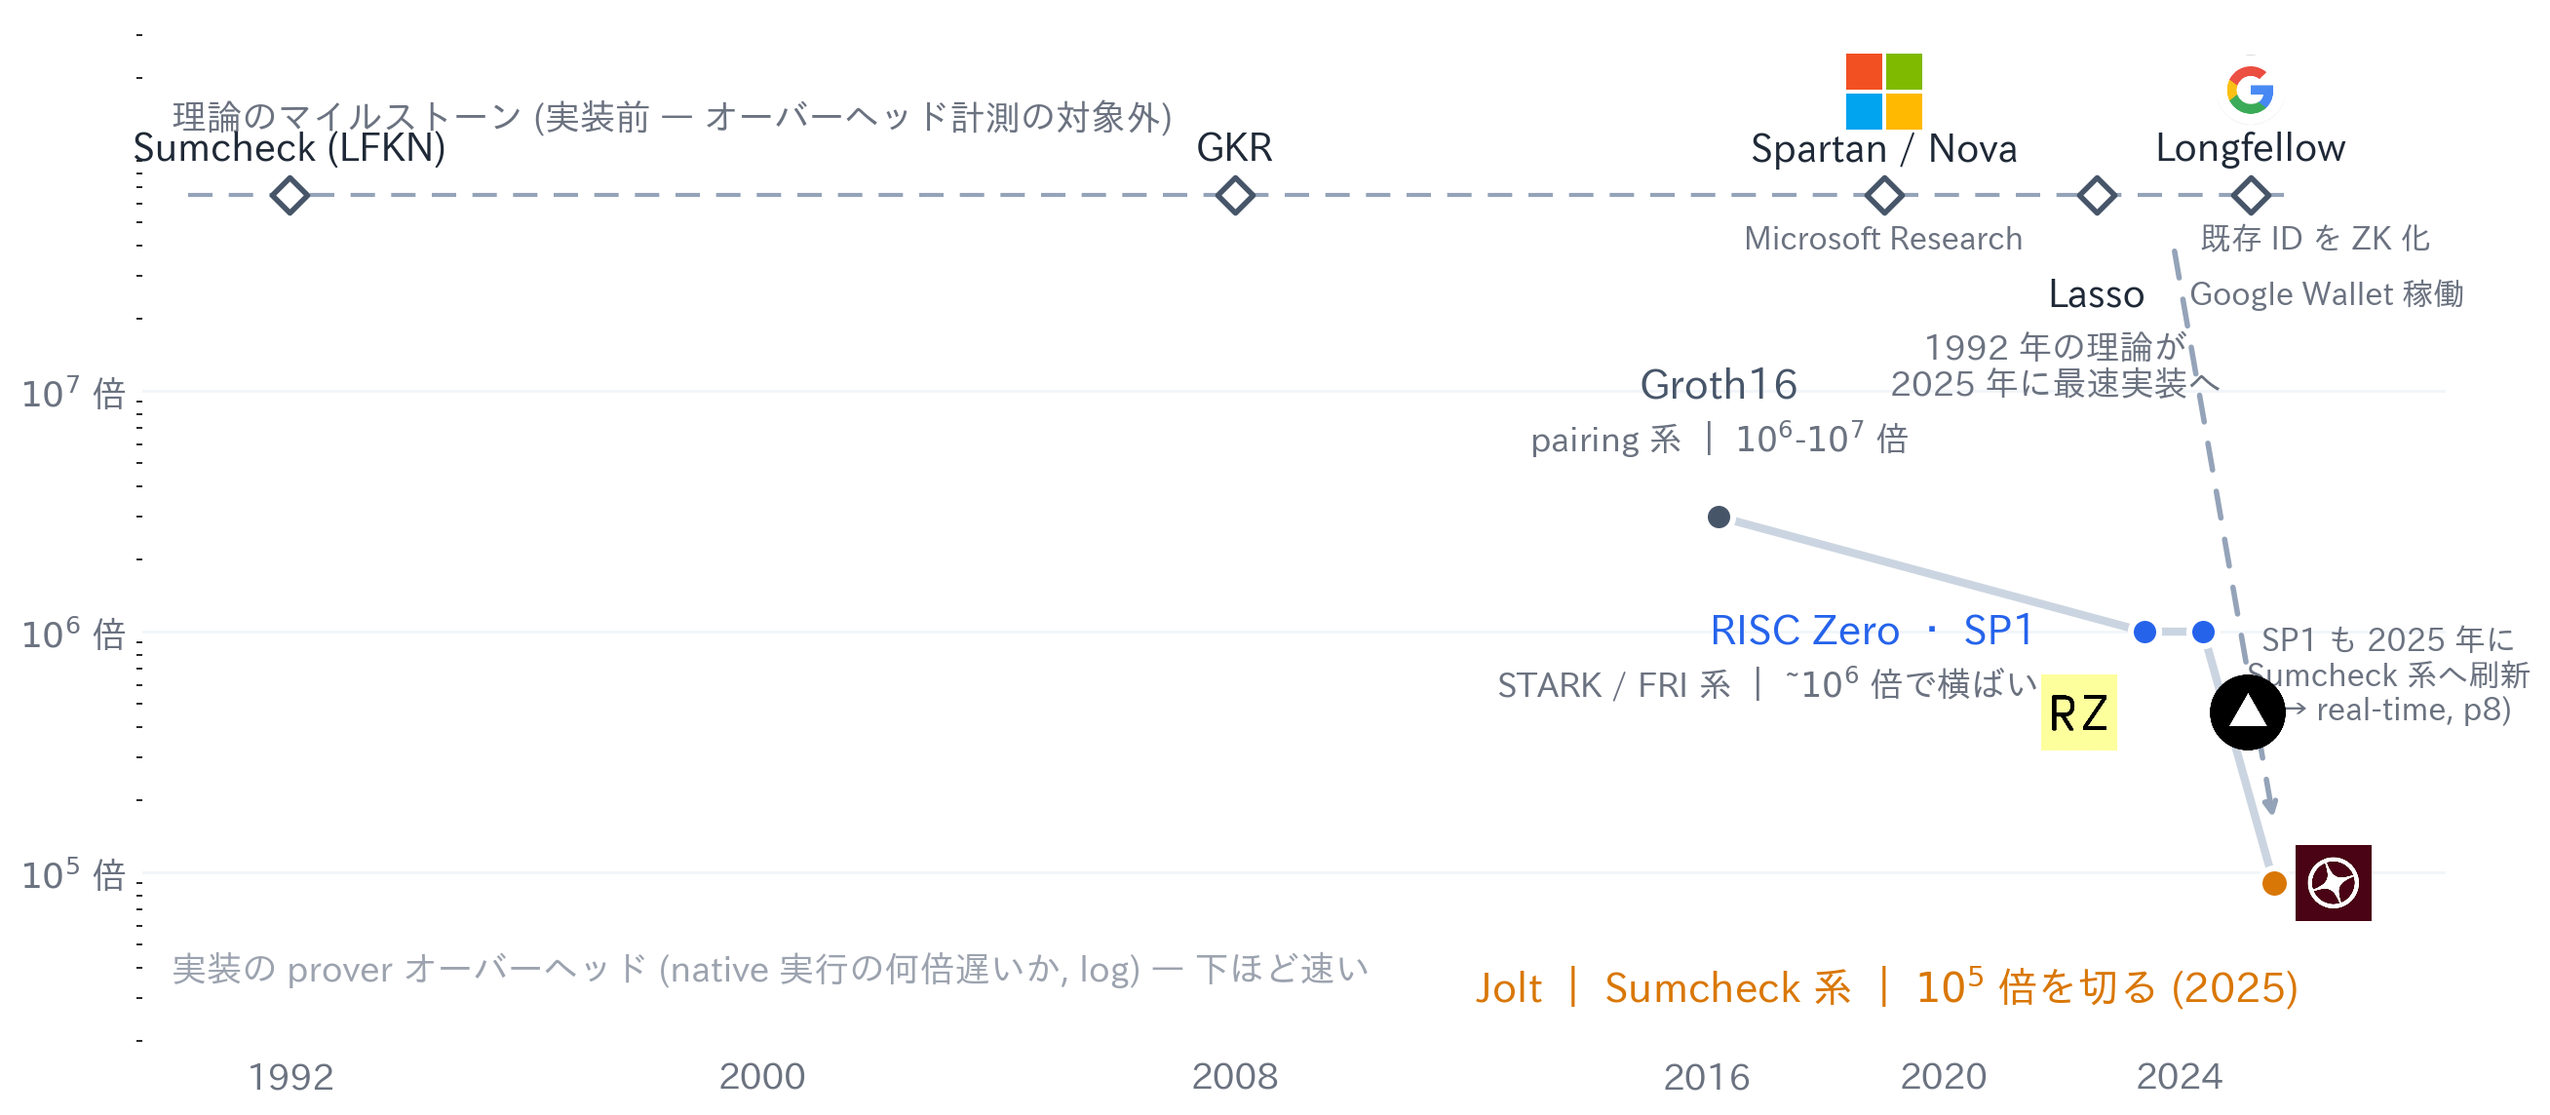
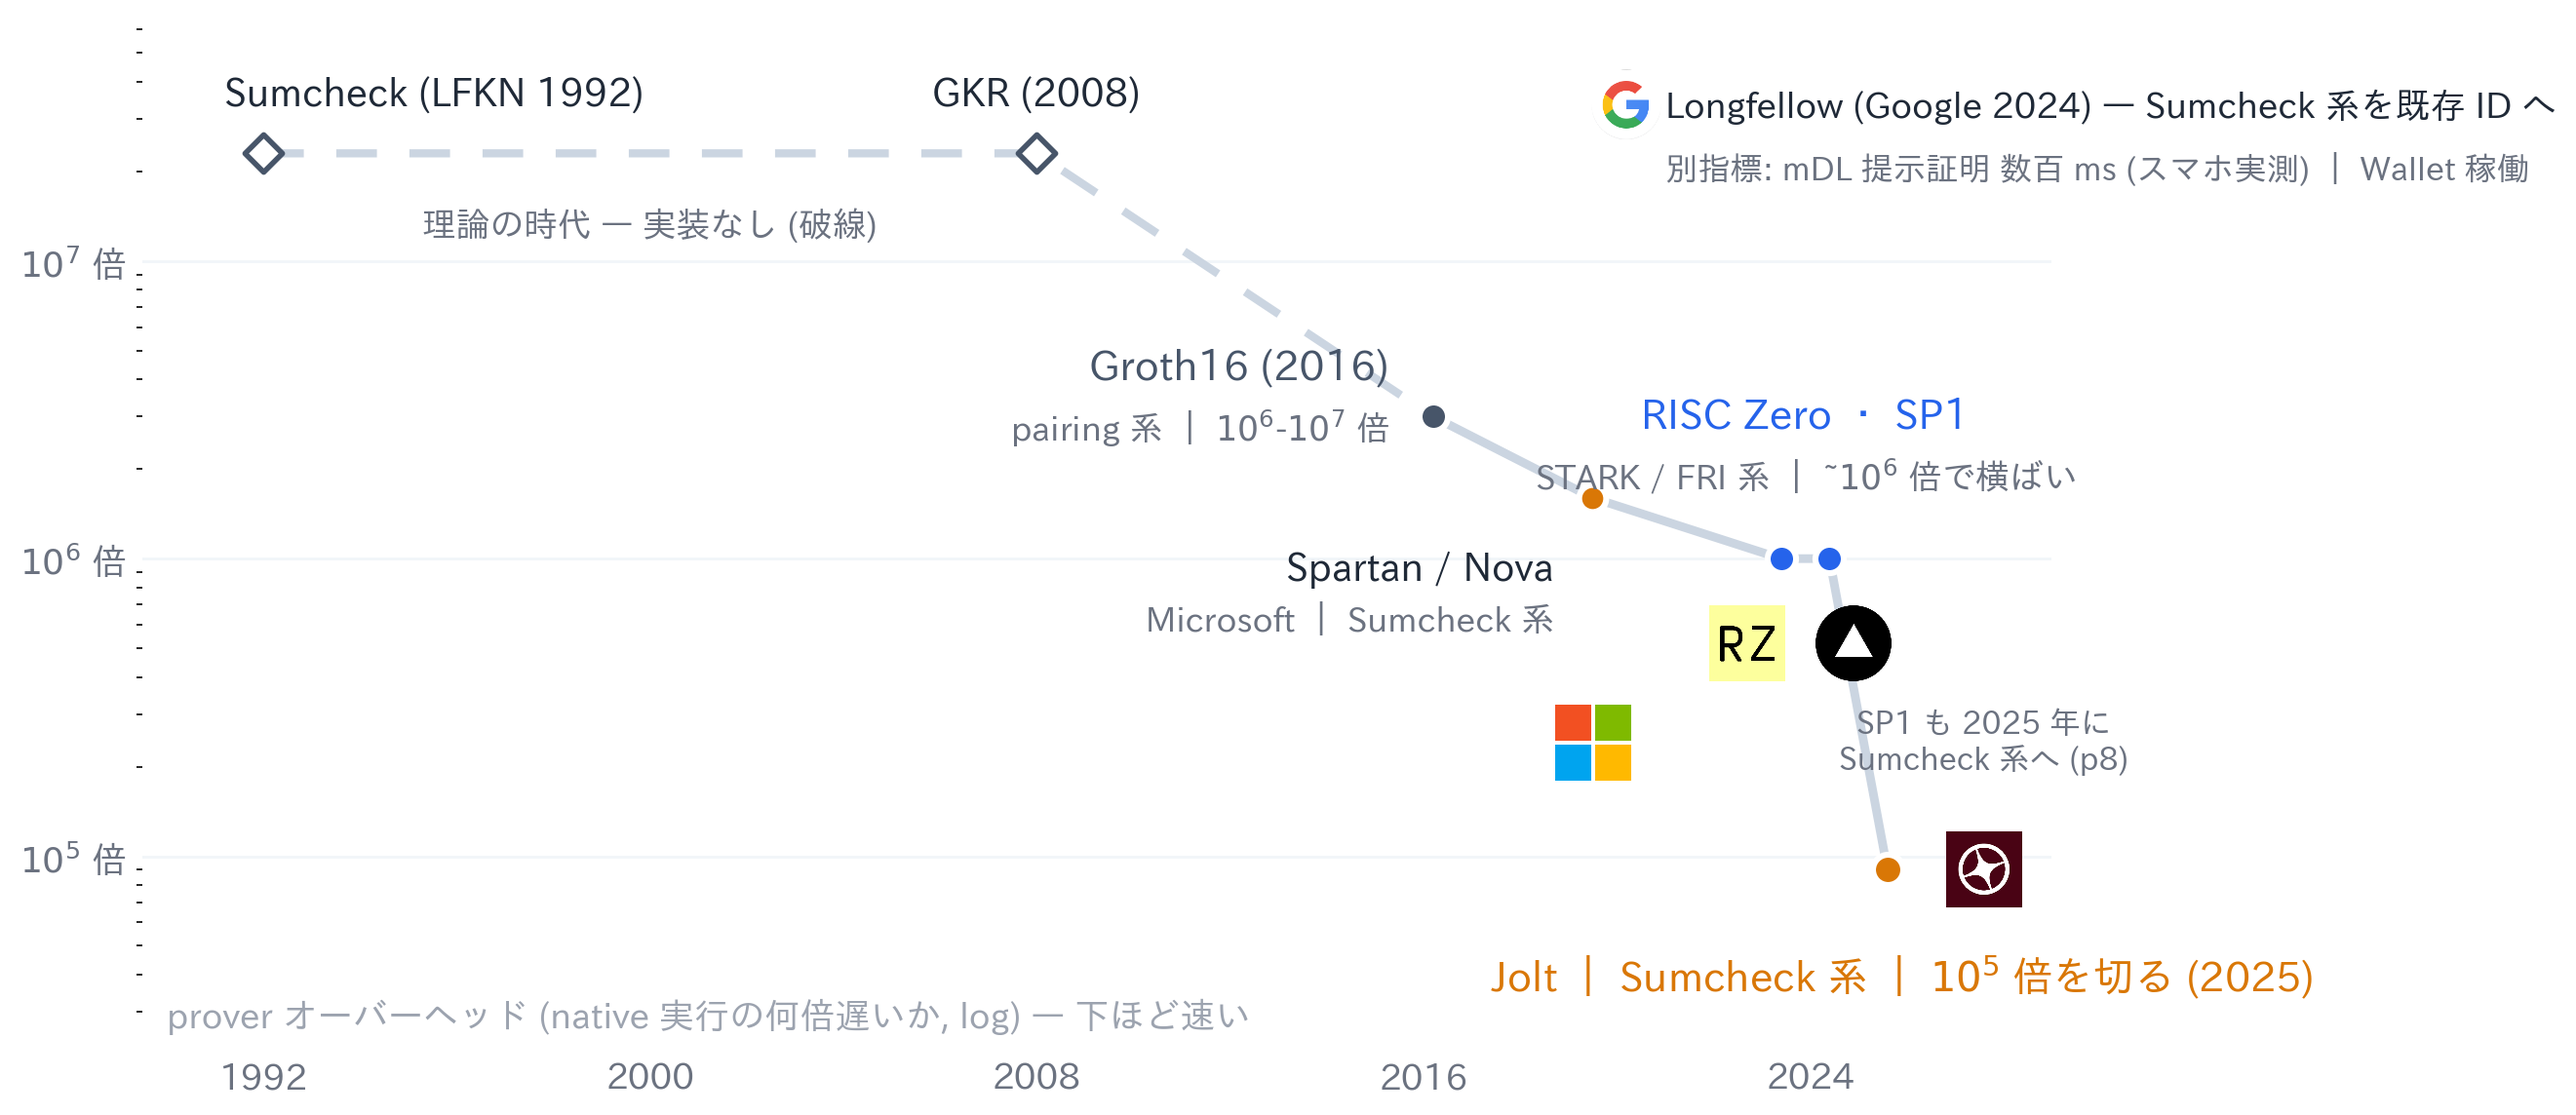
p15 (SL17): 1 本の performance 線に全面リライト — 理論時代は破線、実装以降は実線 (Sumcheck→GKR→Groth16→Spartan/Nova→RISC Zero→SP1→Jolt、Longfellow は併記)

diff --git a/figures/prover_overhead.py b/figures/prover_overhead.py
@@ -1,15 +1,17 @@
-# prover_overhead.py — 証明系の理論と実装を 1 本のグラフに統合 (SL17)
+# prover_overhead.py — 証明系 30 年の performance を 1 本の線で (SL17)
 #
 # 生成: uv run --with matplotlib python3 figures/prover_overhead.py
 # 出力: public/images/prover_overhead.png
 #
 # 設計:
-#   - グラフは 1 個。上段の破線シェルフ = 理論マイルストーン (オーバーヘッド計測の対象外):
-#     Sumcheck (1992) / GKR (2008) / Spartan・Nova (Microsoft) / Lasso / Longfellow (Google)。
-#   - 下段の折れ線 = 実装の最速 prover オーバーヘッド (native 比, log。下ほど速い):
-#     Groth16 → RISC Zero → SP1 → Jolt。点の色 = 系統 (グレー pairing / 青 STARK・FRI / amber Sumcheck)。
-#   - シェルフから Jolt への破線矢印 = 「1992 年の理論が 2025 年に最速実装へ」。
-#   - 値は出典のある公表値・公表分析のみ (Thaler a16z 2022/2025, Jolt 2025)。凡例なし。
+#   - 線は 1 本だけ。1992 (Sumcheck) から 2025 (Jolt) まで降りてくる。
+#     破線区間 = 理論のみ (実装が無くオーバーヘッド計測なし)、実線区間 = 実装の最速値。
+#   - 縦軸 = prover オーバーヘッド (native 実行の何倍遅いか, log)。下ほど速い。
+#   - 点の色 = 系統: グレー = pairing / 青 = STARK・FRI / amber = Sumcheck。
+#     理論点 (Sumcheck / GKR) は白抜きダイヤ。
+#   - Longfellow (Google) は zkVM と別指標のため右上の注記で併載。
+#   - 実測値の出典: Thaler a16z (2022 / 2025-03), a16z Jolt (2025-08)。
+#     Spartan / Nova の点は系譜上の中継点 (公表オーバーヘッド値なし、位置は模式)。
 
 import matplotlib
 matplotlib.use("Agg")
@@ -32,6 +34,7 @@ GRAY = "#475569"
 GHOST = "#94a3b8"
 BLUE = "#2563eb"
 AMBER = "#d97706"
+LINE = "#cbd5e1"
 TEXT_PRIMARY = "#1f2937"
 TEXT_MUTED = "#6b7280"
 TEXT_FAINT = "#9ca3af"
@@ -52,9 +55,9 @@ def logo_at(name, x, y):
 fig, ax = plt.subplots(figsize=(13.2, 5.8), dpi=200)
 fig.patch.set_facecolor(SURFACE)
 ax.set_facecolor(SURFACE)
-ax.set_xlim(1989.5, 2028.5)
+ax.set_xlim(1989.5, 2029.0)
 ax.set_yscale("log")
-ax.set_ylim(2e4, 3.5e8)
+ax.set_ylim(2.4e4, 6.5e7)
 
 for sp in ax.spines.values():
     sp.set_visible(False)
@@ -66,89 +69,71 @@ ax.tick_params(axis="y", length=0, pad=6)
 ax.grid(axis="y", color=GRID, linewidth=1, zorder=0)
 ax.set_axisbelow(True)
 
-xticks = [1992, 2000, 2008, 2016, 2020, 2024]
+xticks = [1992, 2000, 2008, 2016, 2024]
 ax.set_xticks(xticks)
 ax.set_xticklabels([str(t) for t in xticks], fontsize=13, fontweight="bold", color=TEXT_MUTED)
 ax.tick_params(axis="x", length=0, pad=8)
 
-ax.text(1990.0, 3.3e4, "実装の prover オーバーヘッド (native 実行の何倍遅いか, log) — 下ほど速い",
-        ha="left", va="bottom", fontsize=13, fontweight="bold", color=TEXT_FAINT)
+ax.text(1990.0, 2.9e4, "prover オーバーヘッド (native 実行の何倍遅いか, log) — 下ほど速い",
+        ha="left", va="center", fontsize=13, fontweight="bold", color=TEXT_FAINT)
 
-# ================================================================ 理論シェルフ (上段)
-SHELF = 6.5e7
-ax.axhline(SHELF, xmin=0.02, xmax=0.93, color=GHOST, linewidth=1.5,
-           linestyle=(0, (6, 4)), zorder=2)
-ax.text(1990.0, 1.35e8, "理論のマイルストーン (実装前 — オーバーヘッド計測の対象外)",
-        ha="left", va="center", fontsize=13, fontweight="bold", color=TEXT_MUTED)
+# ================================================================ 1 本の線
+THEORY_Y = 2.3e7
+# 破線区間 (理論のみ) : 1992 → 2008 → Groth16 の実装で降下開始
+ax.plot([1992, 2008, 2016.2], [THEORY_Y, THEORY_Y, 3e6], color=LINE, linewidth=3.0,
+        linestyle=(0, (5, 4)), zorder=3, solid_capstyle="round")
+# 実線区間 (実装の最速値)
+ax.plot([2016.2, 2019.5, 2023.4, 2024.4, 2025.6], [3e6, 1.6e6, 1e6, 1e6, 9e4],
+        color=LINE, linewidth=3.2, zorder=3, solid_capstyle="round", solid_joinstyle="round")
 
-theory = [
-    {"x": 1992, "label": "Sumcheck (LFKN)", "side": "up", "logo": None},
-    {"x": 2008, "label": "GKR", "side": "up", "logo": None},
-    {"x": 2019, "label": "Spartan / Nova", "side": "up", "logo": "microsoft.png",
-     "sub": "Microsoft Research"},
-    {"x": 2022.6, "label": "Lasso", "side": "downdeep", "logo": None},
-    {"x": 2025.2, "label": "Longfellow", "side": "up", "logo": "google.png"},
-]
-for t in theory:
-    ax.scatter([t["x"]], [SHELF], s=85, marker="D", facecolor="white",
-               edgecolor=GRAY, linewidth=2.0, zorder=5)
-    if t["side"] == "up":
-        ax.text(t["x"], 1.0e8, t["label"], ha="center", va="center", fontsize=14,
-                fontweight="bold", color=TEXT_PRIMARY, zorder=6)
-        if t.get("sub"):
-            ax.text(t["x"], 4.2e7, t["sub"], ha="center", va="center", fontsize=11.5,
-                    fontweight="bold", color=TEXT_MUTED, zorder=6)
-    else:
-        yy = 2.5e7 if t["side"] == "downdeep" else 4.2e7
-        ax.text(t["x"], yy, t["label"], ha="center", va="center", fontsize=14,
-                fontweight="bold", color=TEXT_PRIMARY, zorder=6)
-    if t.get("logo"):
-        logo_at(t["logo"], t["x"], 1.75e8)
+# 理論点 (白抜きダイヤ)
+ax.scatter([1992, 2008], [THEORY_Y, THEORY_Y], s=95, marker="D", facecolor="white",
+           edgecolor=GRAY, linewidth=2.0, zorder=5)
+# 実装点 (色 = 系統)
+ax.scatter([2016.2], [3e6], s=110, facecolor=GRAY, edgecolor="white", linewidth=2.2, zorder=5)
+ax.scatter([2019.5], [1.6e6], s=100, facecolor=AMBER, edgecolor="white", linewidth=2.2, zorder=5)
+ax.scatter([2023.4, 2024.4], [1e6, 1e6], s=110, facecolor=BLUE, edgecolor="white",
+           linewidth=2.2, zorder=5)
+ax.scatter([2025.6], [9e4], s=125, facecolor=AMBER, edgecolor="white", linewidth=2.2, zorder=5)
 
-# Longfellow の補足 (右上、シェルフ下に 2 行で)
-ax.text(2026.3, 4.2e7, "既存 ID を ZK 化", ha="center", va="center", fontsize=11.5,
-        fontweight="bold", color=TEXT_MUTED, zorder=6)
-ax.text(2026.5, 2.5e7, "Google Wallet 稼働", ha="center", va="center", fontsize=11.5,
-        fontweight="bold", color=TEXT_MUTED, zorder=6)
-
-# 理論 → 実装の橋 (Sumcheck/GKR/Lasso → Jolt)
-ax.annotate("", xy=(2025.6, 1.6e5), xytext=(2023.9, 4.0e7),
-            arrowprops=dict(arrowstyle="-|>", color=GHOST, lw=2.0,
-                            linestyle=(0, (5, 4))))
-ax.text(2021.9, 1.25e7, "1992 年の理論が\n2025 年に最速実装へ", ha="center", va="center",
+# ================================================================ ラベル
+ax.text(1991.2, 3.6e7, "Sumcheck (LFKN 1992)", ha="left", va="center", fontsize=14,
+        fontweight="bold", color=TEXT_PRIMARY, zorder=6)
+ax.text(2008, 3.6e7, "GKR (2008)", ha="center", va="center", fontsize=14,
+        fontweight="bold", color=TEXT_PRIMARY, zorder=6)
+ax.text(2000, 1.32e7, "理論の時代 — 実装なし (破線)", ha="center", va="center",
         fontsize=12.5, fontweight="bold", color=TEXT_MUTED, zorder=6)
 
-# ================================================================ 実装 frontier (下段)
-fx = [2016.2, 2023.4, 2024.4, 2025.6]
-fy = [3e6, 1e6, 1e6, 9e4]
-ax.plot(fx, fy, color="#cbd5e1", linewidth=3.0, zorder=3,
-        solid_capstyle="round", solid_joinstyle="round")
-ax.scatter([fx[0]], [fy[0]], s=110, facecolor=GRAY, edgecolor="white", linewidth=2.2, zorder=5)
-ax.scatter(fx[1:3], fy[1:3], s=110, facecolor=BLUE, edgecolor="white", linewidth=2.2, zorder=5)
-ax.scatter([fx[3]], [fy[3]], s=125, facecolor=AMBER, edgecolor="white", linewidth=2.2, zorder=5)
-
-# Groth16 (pairing 系)
-ax.text(2016.2, 1.05e7, "Groth16", ha="center", va="center", fontsize=15,
+ax.text(2015.3, 4.4e6, "Groth16 (2016)", ha="right", va="center", fontsize=15,
         fontweight="bold", color=GRAY, zorder=6)
-ax.text(2016.2, 6.3e6, r"pairing 系 ｜ $10^6$-$10^7$ 倍", ha="center", va="center",
+ax.text(2015.3, 2.75e6, r"pairing 系 ｜ $10^6$-$10^7$ 倍", ha="right", va="center",
         fontsize=12.5, fontweight="bold", color=TEXT_MUTED, zorder=6)
 
-# RISC Zero / SP1 (STARK / FRI 系)
-ax.text(2021.6, 1e6, "RISC Zero ・ SP1", ha="right", va="center", fontsize=15,
+ax.text(2018.7, 9.2e5, "Spartan / Nova", ha="right", va="center", fontsize=14,
+        fontweight="bold", color=TEXT_PRIMARY, zorder=6)
+ax.text(2018.7, 6.2e5, "Microsoft ｜ Sumcheck 系", ha="right", va="center",
+        fontsize=12.5, fontweight="bold", color=TEXT_MUTED, zorder=6)
+logo_at("microsoft.png", 2019.5, 2.4e5)
+
+ax.text(2023.9, 3.0e6, "RISC Zero ・ SP1", ha="center", va="center", fontsize=15,
         fontweight="bold", color=BLUE, zorder=6)
-ax.text(2021.6, 6.1e5, r"STARK / FRI 系 ｜ ~$10^6$ 倍で横ばい", ha="right", va="center",
+ax.text(2023.9, 1.9e6, r"STARK / FRI 系 ｜ ~$10^6$ 倍で横ばい", ha="center", va="center",
         fontsize=12.5, fontweight="bold", color=TEXT_MUTED, zorder=6)
-logo_at("risc0.png", 2022.3, 4.6e5)
-logo_at("succinct.png", 2025.15, 4.6e5)
+logo_at("risc0.png", 2022.7, 5.2e5)
+logo_at("succinct.png", 2024.9, 5.2e5)
 
-# Jolt (Sumcheck 系)
-ax.text(2026.0, 3.3e4, r"Jolt ｜ Sumcheck 系 ｜ $10^5$ 倍を切る (2025)", ha="right",
+ax.text(2025.9, 3.9e4, r"Jolt ｜ Sumcheck 系 ｜ $10^5$ 倍を切る (2025)", ha="center",
         va="center", fontsize=15, fontweight="bold", color=AMBER, zorder=6)
-logo_at("a16z.png", 2026.6, 9e4)
+logo_at("a16z.png", 2027.6, 9e4)
+ax.text(2027.6, 2.4e5, "SP1 も 2025 年に\nSumcheck 系へ (p8)", ha="center", va="center",
+        fontsize=11.5, fontweight="bold", color=TEXT_MUTED, zorder=6)
 
-# SP1 の Sumcheck 化の注記
-ax.text(2027.55, 6.5e5, "SP1 も 2025 年に\nSumcheck 系へ刷新\n(→ real-time, p8)",
-        ha="center", va="center", fontsize=11.5, fontweight="bold", color=TEXT_MUTED, zorder=6)
+# Longfellow (Google) — zkVM と別指標なので線に乗せず併記
+logo_at("google.png", 2020.2, 3.3e7)
+ax.text(2021.0, 3.3e7, "Longfellow (Google 2024) — Sumcheck 系を既存 ID へ", ha="left",
+        va="center", fontsize=13, fontweight="bold", color=TEXT_PRIMARY, zorder=6)
+ax.text(2021.0, 2.05e7, "別指標: mDL 提示証明 数百 ms (スマホ実測) ｜ Wallet 稼働",
+        ha="left", va="center", fontsize=12, fontweight="bold", color=TEXT_MUTED, zorder=6)
 
 plt.tight_layout(pad=1.0)
 plt.savefig(OUT, facecolor=SURFACE, bbox_inches="tight")

diff --git a/slides/SL17.md b/slides/SL17.md
@@ -15,10 +15,12 @@ Sources: Lund, Fortnow, Karloff, Nisan (Sumcheck) JACM 1992 ｜ Goldwasser, Kala
 <!--
 Speaker Notes:
 
-【概要 (グラフは 1 個 — 上下 2 層)】
-- 上の破線シェルフ = 理論のマイルストーン (実装前なのでオーバーヘッド計測の対象外): Sumcheck (LFKN 1992) → GKR (2008) → Spartan / Nova (Microsoft Research, Srinath Setty ら) → Lasso (2023) → Longfellow (Google, 2024)。
-- 下の折れ線 = 実装の最速 prover オーバーヘッド (native 実行の何倍遅いか, log。下ほど速い): Groth16 → RISC Zero → SP1 → Jolt。10 年で 10⁶-10⁷ 倍 → 10⁵ 倍未満 = 2 桁の高速化。
-- 破線の矢印 = 理論から実装への橋。1992 年の Sumcheck が GKR・Lasso を経て 2025 年の最速 zkVM (Jolt) になった、がこの 1 枚の物語。
+【概要 (線は 1 本だけ)】
+- 1992 年の Sumcheck から 2025 年の Jolt まで、prover 性能の 30 年を 1 本の線で降りてくる。
+- 破線区間 (1992-2016) = 理論のみの時代。Sumcheck (LFKN 1992)、GKR (2008) は白抜きダイヤ — 実装が無くオーバーヘッド計測が存在しない。
+- 実線区間 (2016-) = 実装の最速 prover オーバーヘッド (native 実行の何倍遅いか, log。下ほど速い): Groth16 → Spartan / Nova (Microsoft) → RISC Zero → SP1 → Jolt。10 年で 10⁶-10⁷ 倍 → 10⁵ 倍未満 = 2 桁の高速化。
+- 右上の Longfellow (Google, 2024) は zkVM と別指標 (mDL 提示証明を スマホで数百 ms) のため線に乗せず併記。
+- 注: Spartan / Nova の点は系譜上の中継点で、公表オーバーヘッド値があるわけではない (位置は模式)。数値アンカーは Groth16 / 現行 FRI 世代 / Jolt の 3 つ (Thaler a16z 分析 + Jolt 公表値)。
 
 【点の色 = 系統 (混同しないのが本日の要点)】
 - グレー = pairing 系: Groth16 (2016)。証明は最小 (~200B)・検証最速だが、trusted setup が必要で prover オーバーヘッドが大きい (Thaler の分析で 10⁶-10⁷ 倍相当)。Groth16 は Sumcheck 系ではない。
